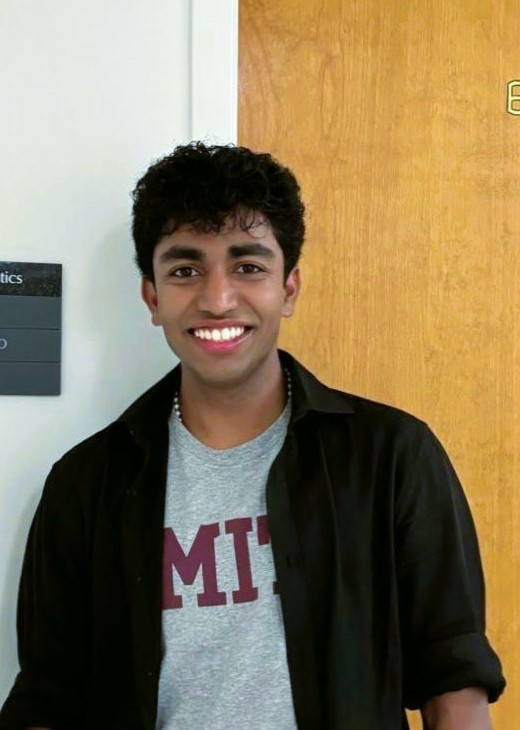
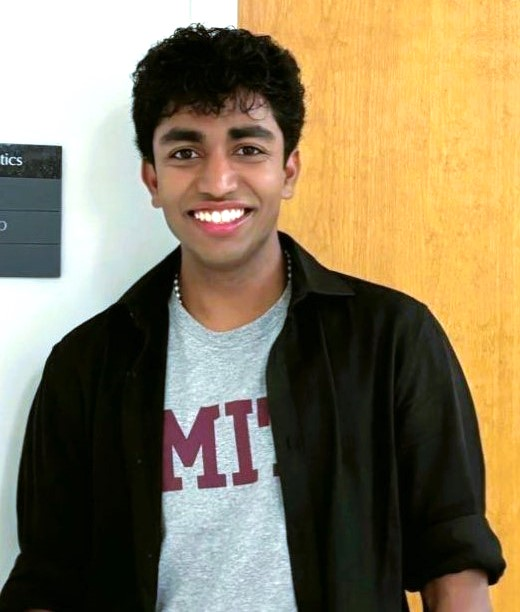
done

diff --git a/_layouts/home.md b/_layouts/home.md
@@ -4,7 +4,7 @@ home: true
 ---
 <h1>Robert Joseph</h1>
 
-<img align="left" width="193" height="230" src="https://www.robertj1.com/assets/img/robertpic.jpeg" vspace="0" hspace="0"/>
+<img align="left" width="193" height="225" src="https://www.robertj1.com/assets/img/robertpic.jpeg" vspace="0" hspace="0"/>
 <p>
 &nbsp; &nbsp; &nbsp; &nbsp; &nbsp; &nbsp; &nbsp; &nbsp; &nbsp; &nbsp; &nbsp; &nbsp; &nbsp; &nbsp; &nbsp; &nbsp; &nbsp; &nbsp; &nbsp; &nbsp; &nbsp; &nbsp; &nbsp; Ph.D. Math &s CS, <a href ="https://cms.caltech.edu/academics/grad_cms"> California Institute of Technology </a> (Sep 2023 - Present)
 <br>
